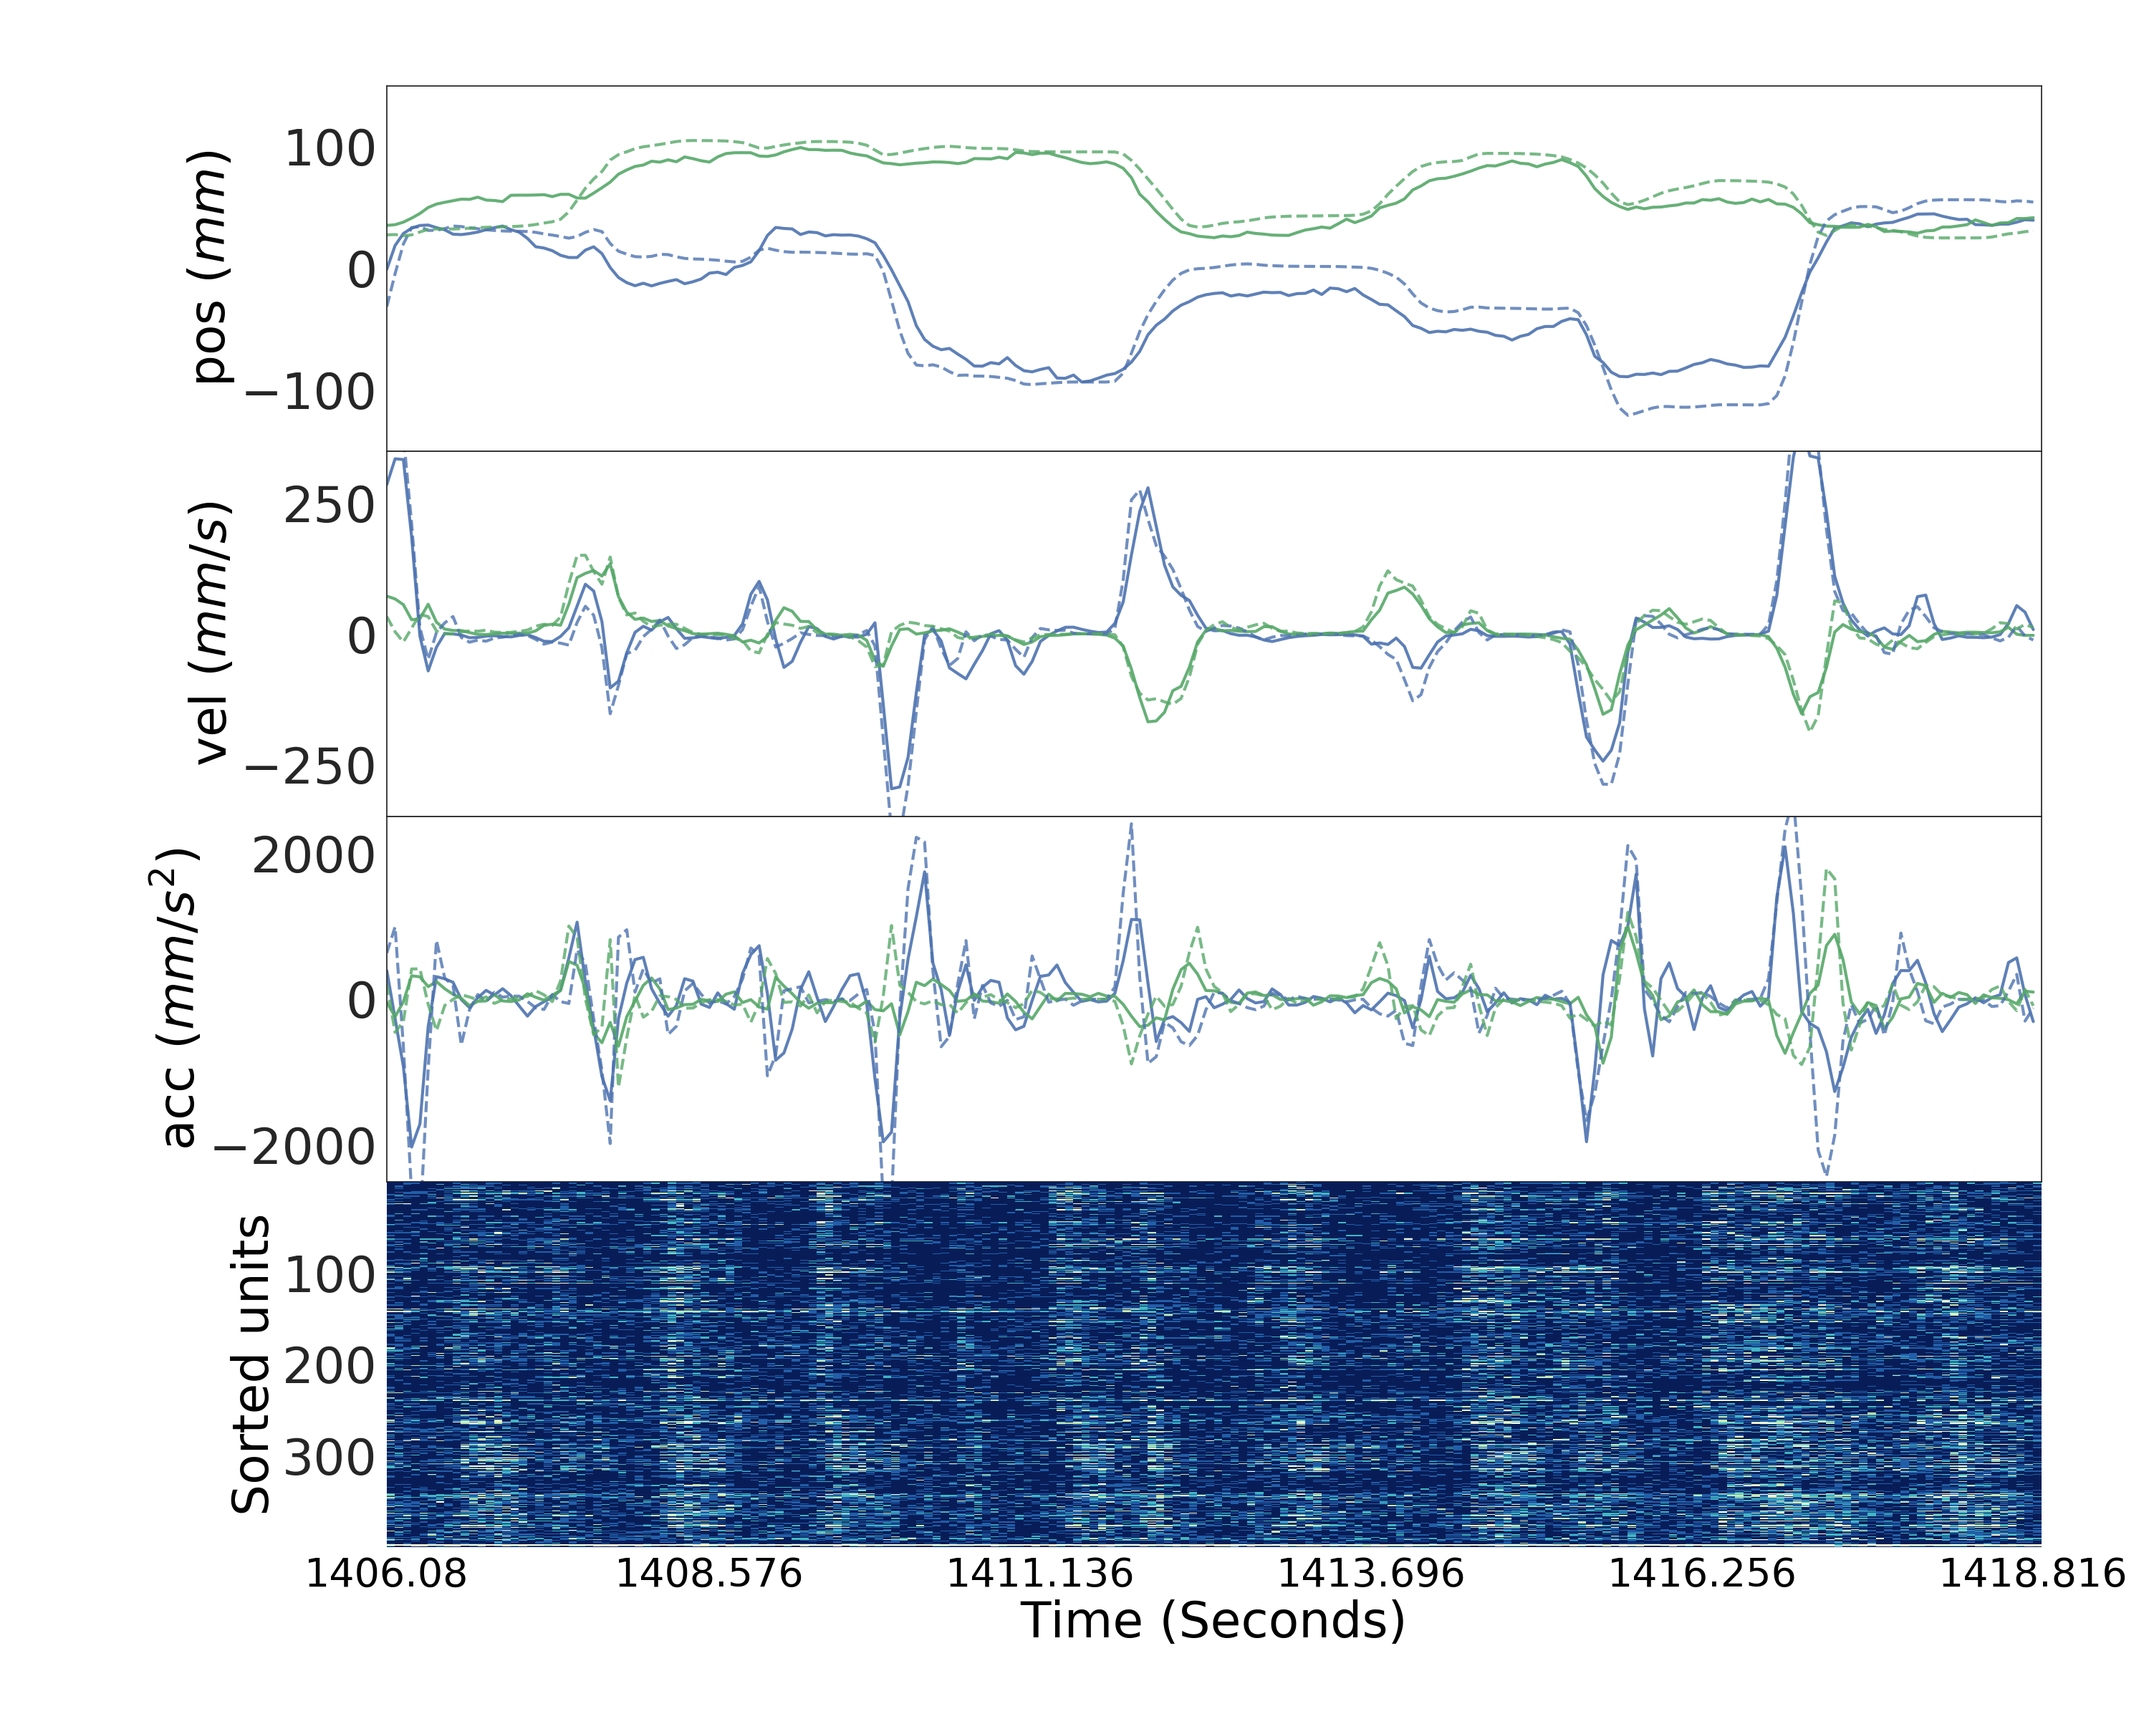
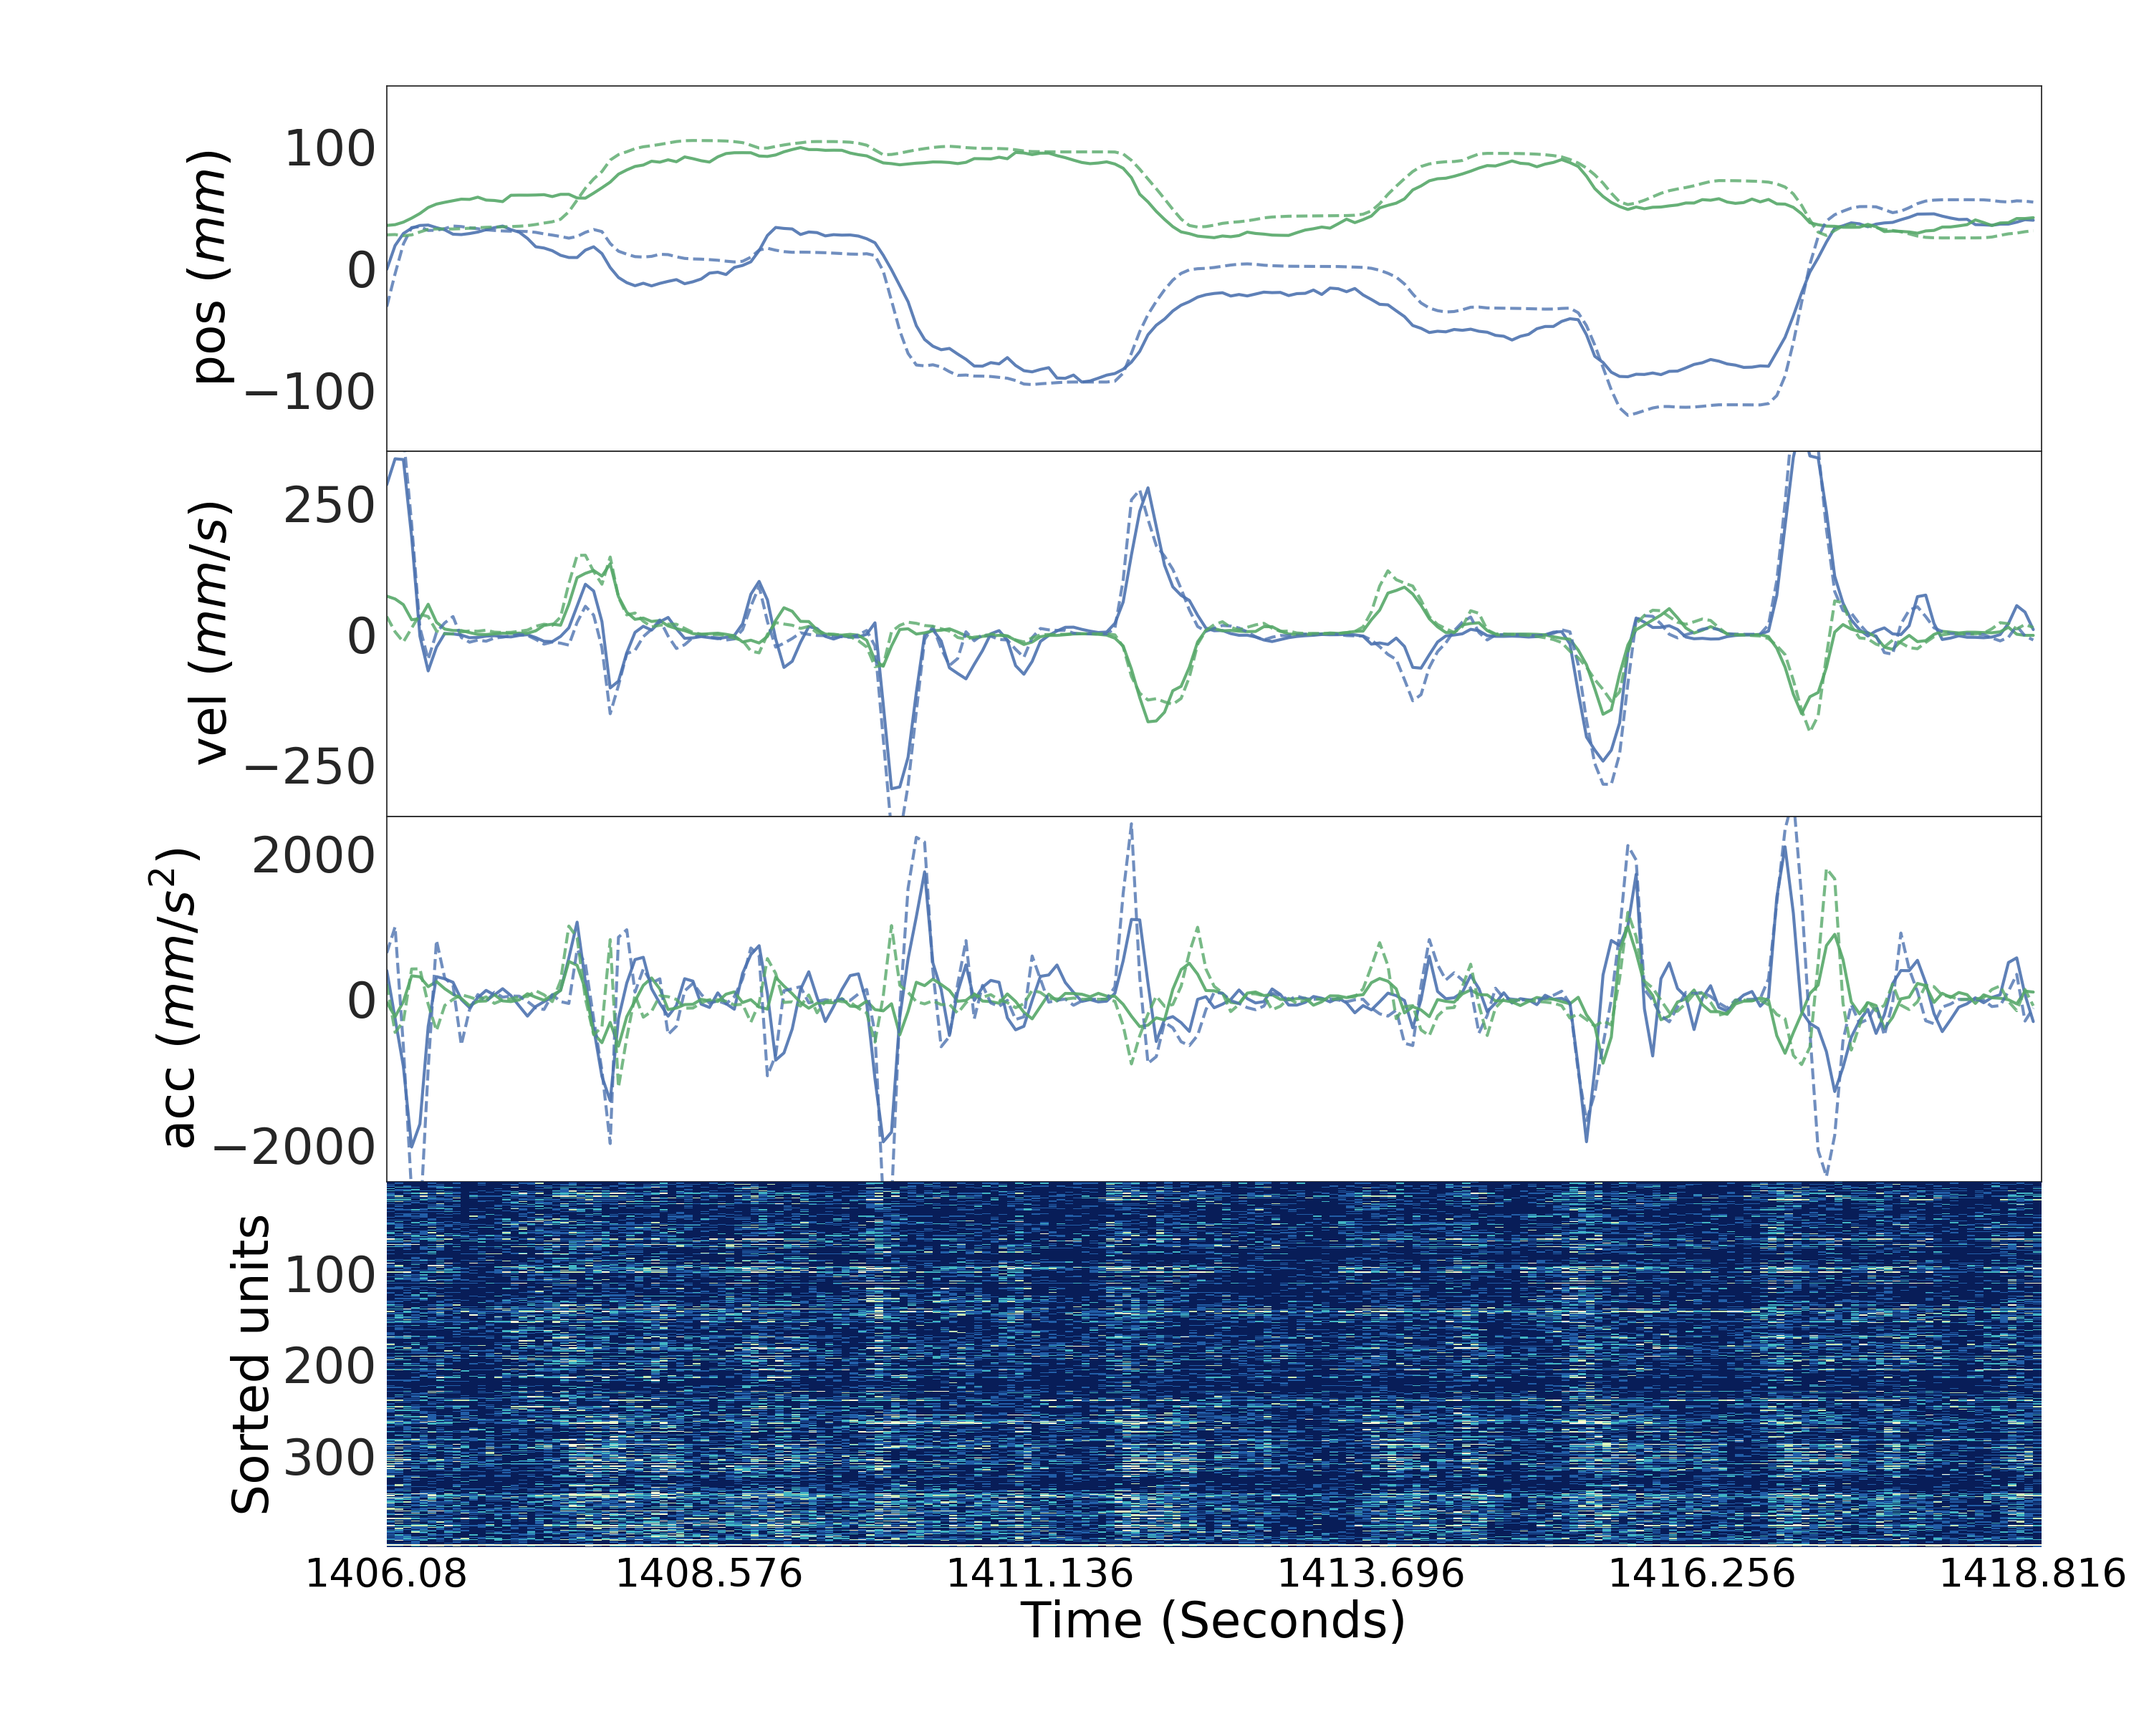
mod

Changed region(s): [[0.155, 0.6875, 0.961, 0.9062]]

diff --git a/Python_code/Read_mat_file_and_Plot/six_kinematic_variable_prediction_with_firing_rate/plot.py b/Python_code/Read_mat_file_and_Plot/six_kinematic_variable_prediction_with_firing_rate/plot.py
@@ -48,8 +48,7 @@ import data_processing.load_mat_file as load_mat_file
 my_parameters=my_parameters.my_parameters()
 mat_file_processing=load_mat_file.mat_file_processing()
 
-
-session_name='indy_20160420_01'
+session_name='indy_20161007_02'  # indy_20160420_01 indy_20161007_02
 file_name_1='../../../Dataset/Sorted_Spike_Dataset/'+session_name+'.mat'
 file_list=[file_name_1]
 
@@ -376,7 +375,7 @@ acceleration_path = './acceleration_data/'+session_name+'/csv_files'
 position_x_predction = pd.read_csv(os.path.join(position_path,'my_prediction_x_pos.csv'), dtype=float, header=None)
 position_x_predction = position_x_predction.to_numpy()
 print('shape of position_x_predction= ', position_x_predction.shape , '\n')
-position_y_predction = pd.read_csv(os.path.join(position_path,'my_predictiony_y_pos.csv'), dtype=float, header=None) # TODO fix the typo my_predictiony_y_pos
+position_y_predction = pd.read_csv(os.path.join(position_path,'my_prediction_y_pos.csv'), dtype=float, header=None) # TODO fix the typo my_predictiony_y_pos
 position_y_predction = position_y_predction.to_numpy()
 print('shape of position_y_predction= ', position_y_predction.shape , '\n')
 position_x_actual = pd.read_csv(os.path.join(position_path,'Ground_Truth_x_pos.csv'), dtype=float, header=None)
@@ -393,7 +392,7 @@ print('shape of position_timestamp= ', position_timestamp.shape , '\n')
 velocity_x_predction = pd.read_csv(os.path.join(velocity_path,'my_prediction_x_vel.csv'), dtype=float, header=None)
 velocity_x_predction = velocity_x_predction.to_numpy()
 print('shape of velocity_x_predction= ', velocity_x_predction.shape , '\n')
-velocity_y_predction = pd.read_csv(os.path.join(velocity_path,'my_predictiony_y_vel.csv'), dtype=float, header=None) # TODO fix the typo my_predictiony_y_pos
+velocity_y_predction = pd.read_csv(os.path.join(velocity_path,'my_prediction_y_vel.csv'), dtype=float, header=None) # TODO fix the typo my_predictiony_y_pos
 velocity_y_predction = velocity_y_predction.to_numpy()
 print('shape of velocity_y_predction= ', velocity_y_predction.shape , '\n')
 velocity_x_actual = pd.read_csv(os.path.join(velocity_path,'Ground_Truth_x_vel.csv'), dtype=float, header=None)
@@ -409,7 +408,7 @@ print('shape of velocity_timestamp= ', velocity_timestamp.shape , '\n')
 acceleration_x_predction = pd.read_csv(os.path.join(acceleration_path,'my_prediction_x_acc.csv'), dtype=float, header=None)
 acceleration_x_predction = acceleration_x_predction.to_numpy()
 print('shape of acceleration_x_predction= ', acceleration_x_predction.shape , '\n')
-acceleration_y_predction = pd.read_csv(os.path.join(acceleration_path,'my_predictiony_y_acc.csv'), dtype=float, header=None) # TODO fix the typo my_predictiony_y_pos
+acceleration_y_predction = pd.read_csv(os.path.join(acceleration_path,'my_prediction_y_acc.csv'), dtype=float, header=None) # TODO fix the typo my_predictiony_y_pos
 acceleration_y_predction = acceleration_y_predction.to_numpy()
 print('shape of acceleration_y_predction= ', acceleration_y_predction.shape , '\n')
 acceleration_x_actual = pd.read_csv(os.path.join(acceleration_path,'Ground_Truth_x_acc.csv'), dtype=float, header=None)
@@ -440,10 +439,13 @@ if ( position_timestamp.shape[0] < velocity_timestamp.shape[0]  ) and ( position
     acceleration_y_actual = acceleration_y_actual[int(a[0]):]
     acceleration_timestamp = acceleration_timestamp[int(a[0]):]
 
+    time_stamp_64ms=time_stamp_64ms[5001:] # TODO fix pd read_csv head=None
     a = np.where( time_stamp_64ms==position_timestamp[0][0] )
     time_stamp_64ms = time_stamp_64ms[int(a[0]):]
+    print('int(a[0])=', int(a[0]), '\n')
     testing_x = testing_x[int(a[0]):]
-
+    print('size of testing_x= ', testing_x.size() , '\n')
+    print('size of time_stamp_64ms= ', len(time_stamp_64ms) , '\n' )
 else:
     exit()
 
@@ -466,7 +468,9 @@ for row_idx in range(data.size(0)):
         valid_rows.append(row_idx)
 data = data[valid_rows,:]
 
-cbar_kws={"orientation": "horizontal", "shrink": 0.2, "aspect":20,"use_gridspec":"True", "fraction":0.01 , "pad":0.03, 'ticks' : [ torch.min(data), 4 ]}
+print(data)
+
+cbar_kws = {"orientation": "horizontal", "shrink": 0.2, "aspect":20,"use_gridspec":"True", "fraction":0.01 , "pad":0.03, 'ticks' : [ torch.min(data), 4 ] }
 sns.heatmap( data=data, vmax=4 ,xticklabels=False, yticklabels=True, cbar_kws=cbar_kws, cmap='YlGnBu_r', ax=ax[0]) # important, not ax[0] = sns.heatmap(...)
 # ax[0].set_xticklabels(ax[0].get_xmajorticklabels(), fontsize = my_fontsize, rotation=0)
 ax[0].set_title('Firing rate from session '+ session_name, fontsize=my_fontsize)
